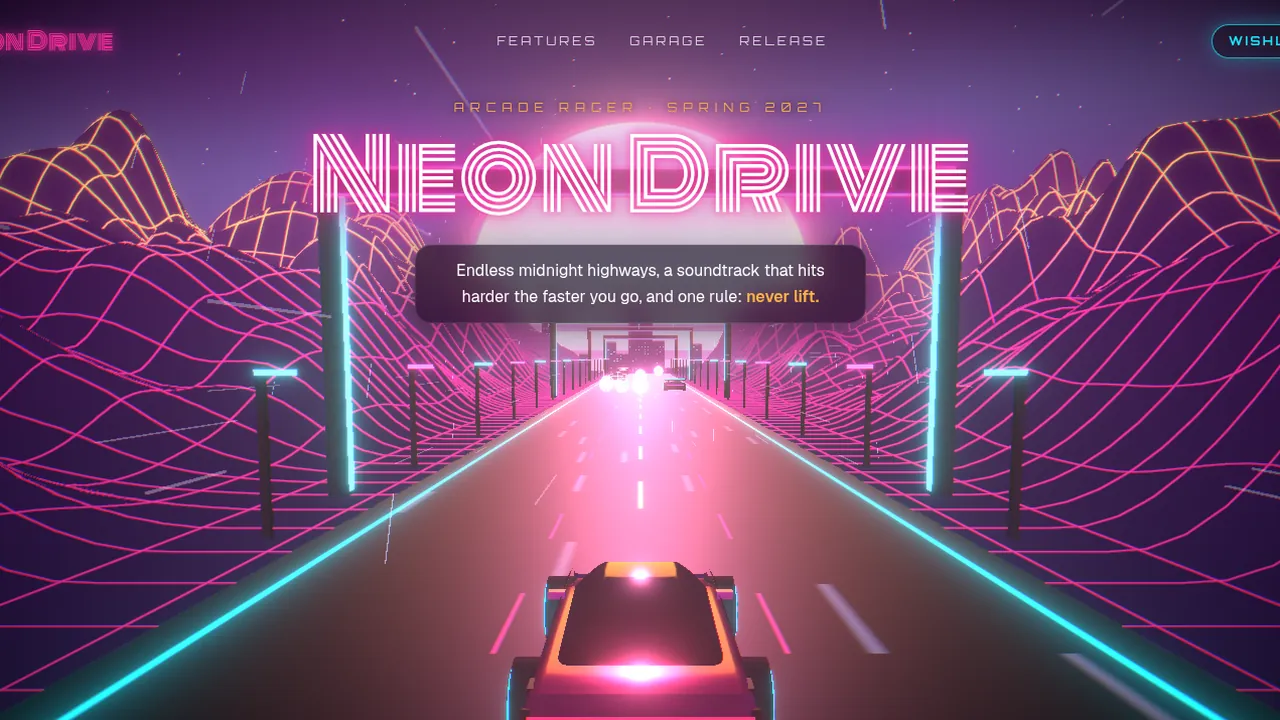
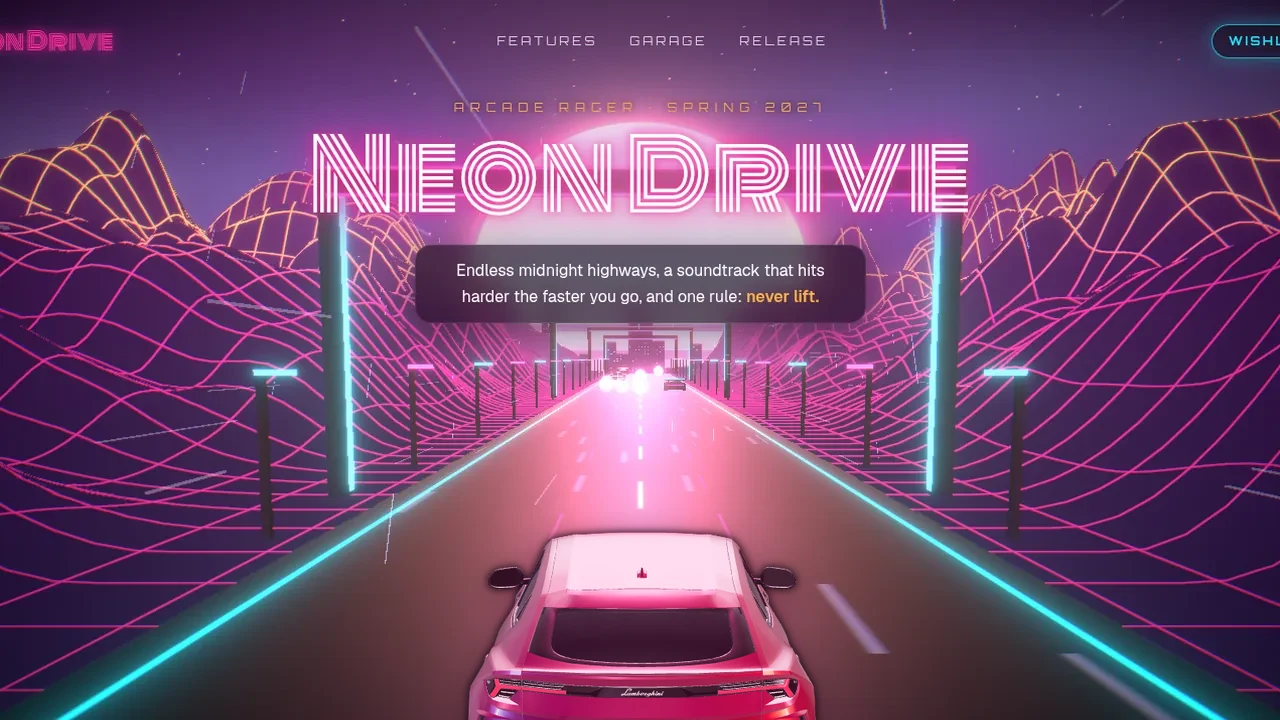
Space out gallery cards, sync caption, swap in the Urus
- Widen the carousel ring so neighbouring cards no longer intersect.
- Switch the gallery caption mid-turn so it matches the card in front.
- Replace the gallery heading's site count with "Whole websites, built in 3D".
- Swap the car in the NeonDrive preview for a render of the Lamborghini Urus.

Changed region(s): [[0.3438, 0.7028, 0.6562, 1.0]]

diff --git a/components/ad/AdExperience.tsx b/components/ad/AdExperience.tsx
@@ -233,10 +233,10 @@ export default function AdExperience() {
             data-to={BEATS.gallery[1] - 0.2}
             className="text-[clamp(2rem,4.6vw,4.5rem)] font-semibold tracking-tight"
           >
+            Whole websites,{" "}
             <span className="bg-gradient-to-r from-violet-400 via-fuchsia-300 to-cyan-300 bg-clip-text text-transparent">
-              {sites.length}
-            </span>{" "}
-            complete 3D websites
+              built in 3D
+            </span>
           </h2>
         </div>
         <div

diff --git a/components/ad/timeline.ts b/components/ad/timeline.ts
@@ -39,5 +39,6 @@ export function galleryIndex(t: number, count: number) {
   const i = Math.floor(u);
   // Hold each card for most of its slot, then swing to the next.
   const turn = smooth((u - i - 0.6) / 0.4);
-  return { index: Math.min(i, count - 1), position: Math.min(i + turn, count - 1) };
+  // The caption follows whichever card is nearer the front, so it switches mid-turn rather than after it.
+  return { index: Math.min(Math.round(i + turn), count - 1), position: Math.min(i + turn, count - 1) };
 }

diff --git a/components/ad/AdScene.tsx b/components/ad/AdScene.tsx
@@ -330,7 +330,8 @@ function Glass() {
 /* Beat: Gallery — the ten sites on a turning carousel                 */
 /* ------------------------------------------------------------------ */
 
-const RING = 7;
+// Wide enough that neighbouring cards (36° apart) never intersect.
+const RING = 8.8;
 const CARD_W = 4.8;
 const CARD_H = 2.7;
 
